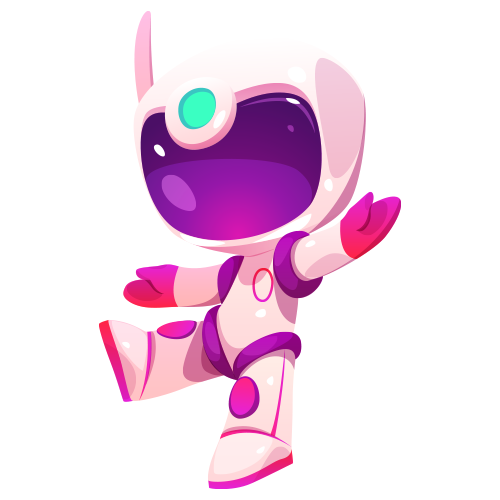
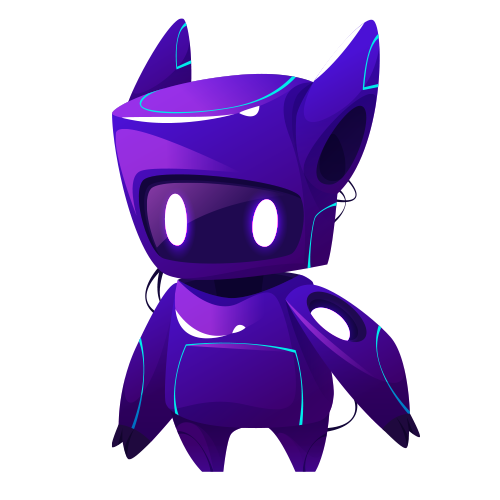
new robots

diff --git a/Officail-Site/public/css/roboimgs.css b/Officail-Site/public/css/roboimgs.css
@@ -32,10 +32,10 @@
     }
 
     .timelineimg {
-        max-width: 15%;
+        max-width: 30%;
         position: absolute;
         left: 15%;
-        margin-top: 2%;
+        margin-top: 1%;
         /* Allow the height to adjust proportionally */
     }
 
@@ -64,7 +64,7 @@
 }
 
 .timelineimg {
-    max-width: 19%;
+    max-width: 21%;
     position: absolute;
     top:100px;
     left: 15%;
@@ -73,7 +73,7 @@
 }
 
 .awardimg {
-    max-width: 20%;
+    max-width: 22%;
     position: absolute;
     right: 15%;
 

diff --git a/Officail-Site/resources/views/Reg-page.blade.php b/Officail-Site/resources/views/Reg-page.blade.php
@@ -64,7 +64,7 @@
                 </div>
 
                 <div class="row">
-                    <div class="order-md-last col-lg-6 col-md-6 mb-lg-0 text-sm-start year">2023</div>
+                    <div class="order-md-last col-lg-6 col-md-6 mb-lg-0 text-sm-start year">2024</div>
                     <div class="order-md-first col-lg-6 col-md-6 text-md-start desc">
                         <!--Hackthon subtheme title. Change with the time-->
                         <div class="subtext text-sm-start ms-0 ">
